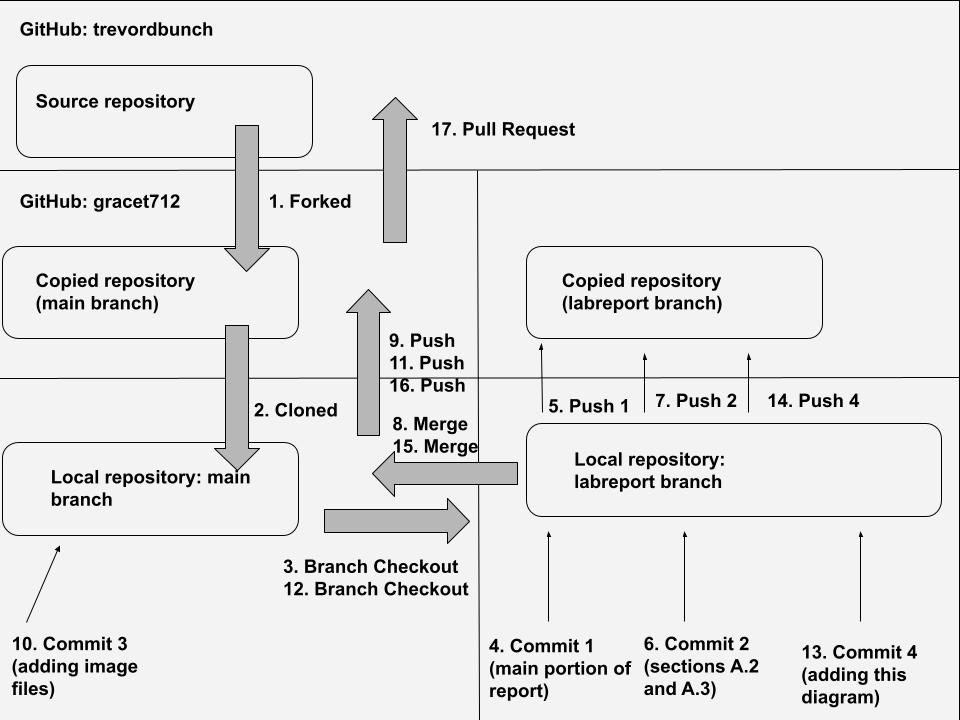
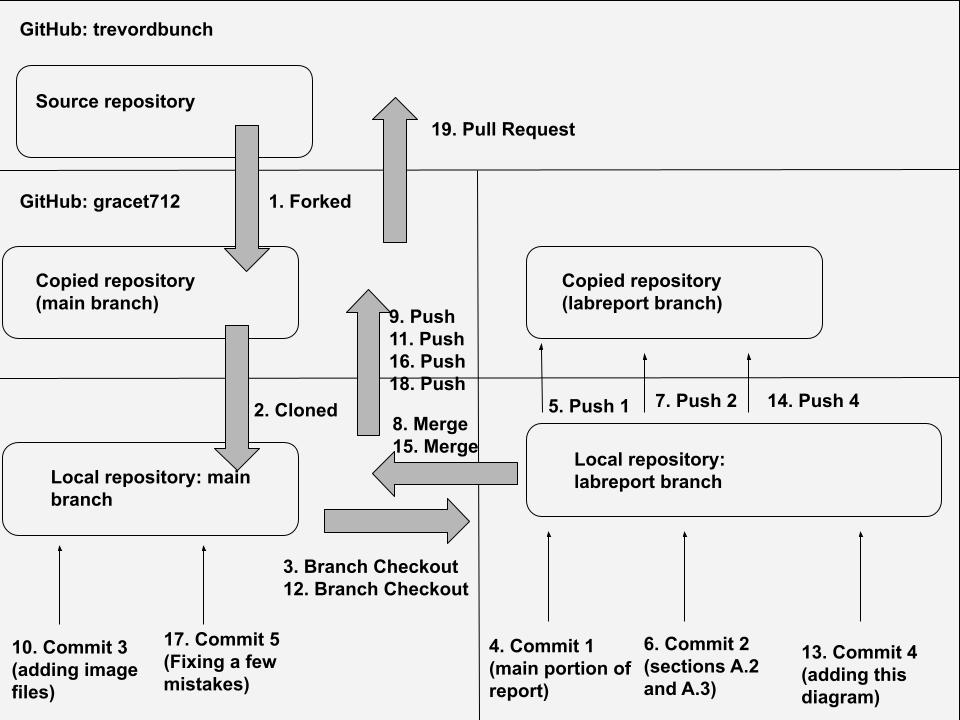
Fixing a few errors in lab report.

Changed region(s): [[0.0, 0.8556, 0.2812, 0.9778], [0.4062, 0.4278, 0.5, 0.55]]

diff --git a/labreports/LAB_[gracet712].md b/labreports/LAB_[gracet712].md
@@ -36,7 +36,6 @@ Outcomes:
 3. The system accepts only those orders that catering can fulfill and transmits them in a timely manner.
 
 ## 2. Requirements
-In this section, organize and list requirements from *Step 5*.  You are welcome to organize this section in anyway that you would like (using headings or tables).  The structure of this section should correspond to your overview section, and it is recommended that that you review the [lessons learned](../lessonsLearned.md) from your colleagues.
 
 - **Business**:
   - B.1 The system must specify whether an order's payment has successfully cleared so that catering will not fulfill an order that is unpaid for. (Catering Boss)
@@ -119,4 +118,4 @@ ad87871 Create License
 ![Main Branch vs. Feature Branch](/assets/main_vs_feature_branch.jpg)
 
 ### A.4 Extra Credit
-In this section, provide the round-trip diagram described in *Step 8*.
+![Round Trip Diagram](/assets/round_trip_diagram.jpg)
